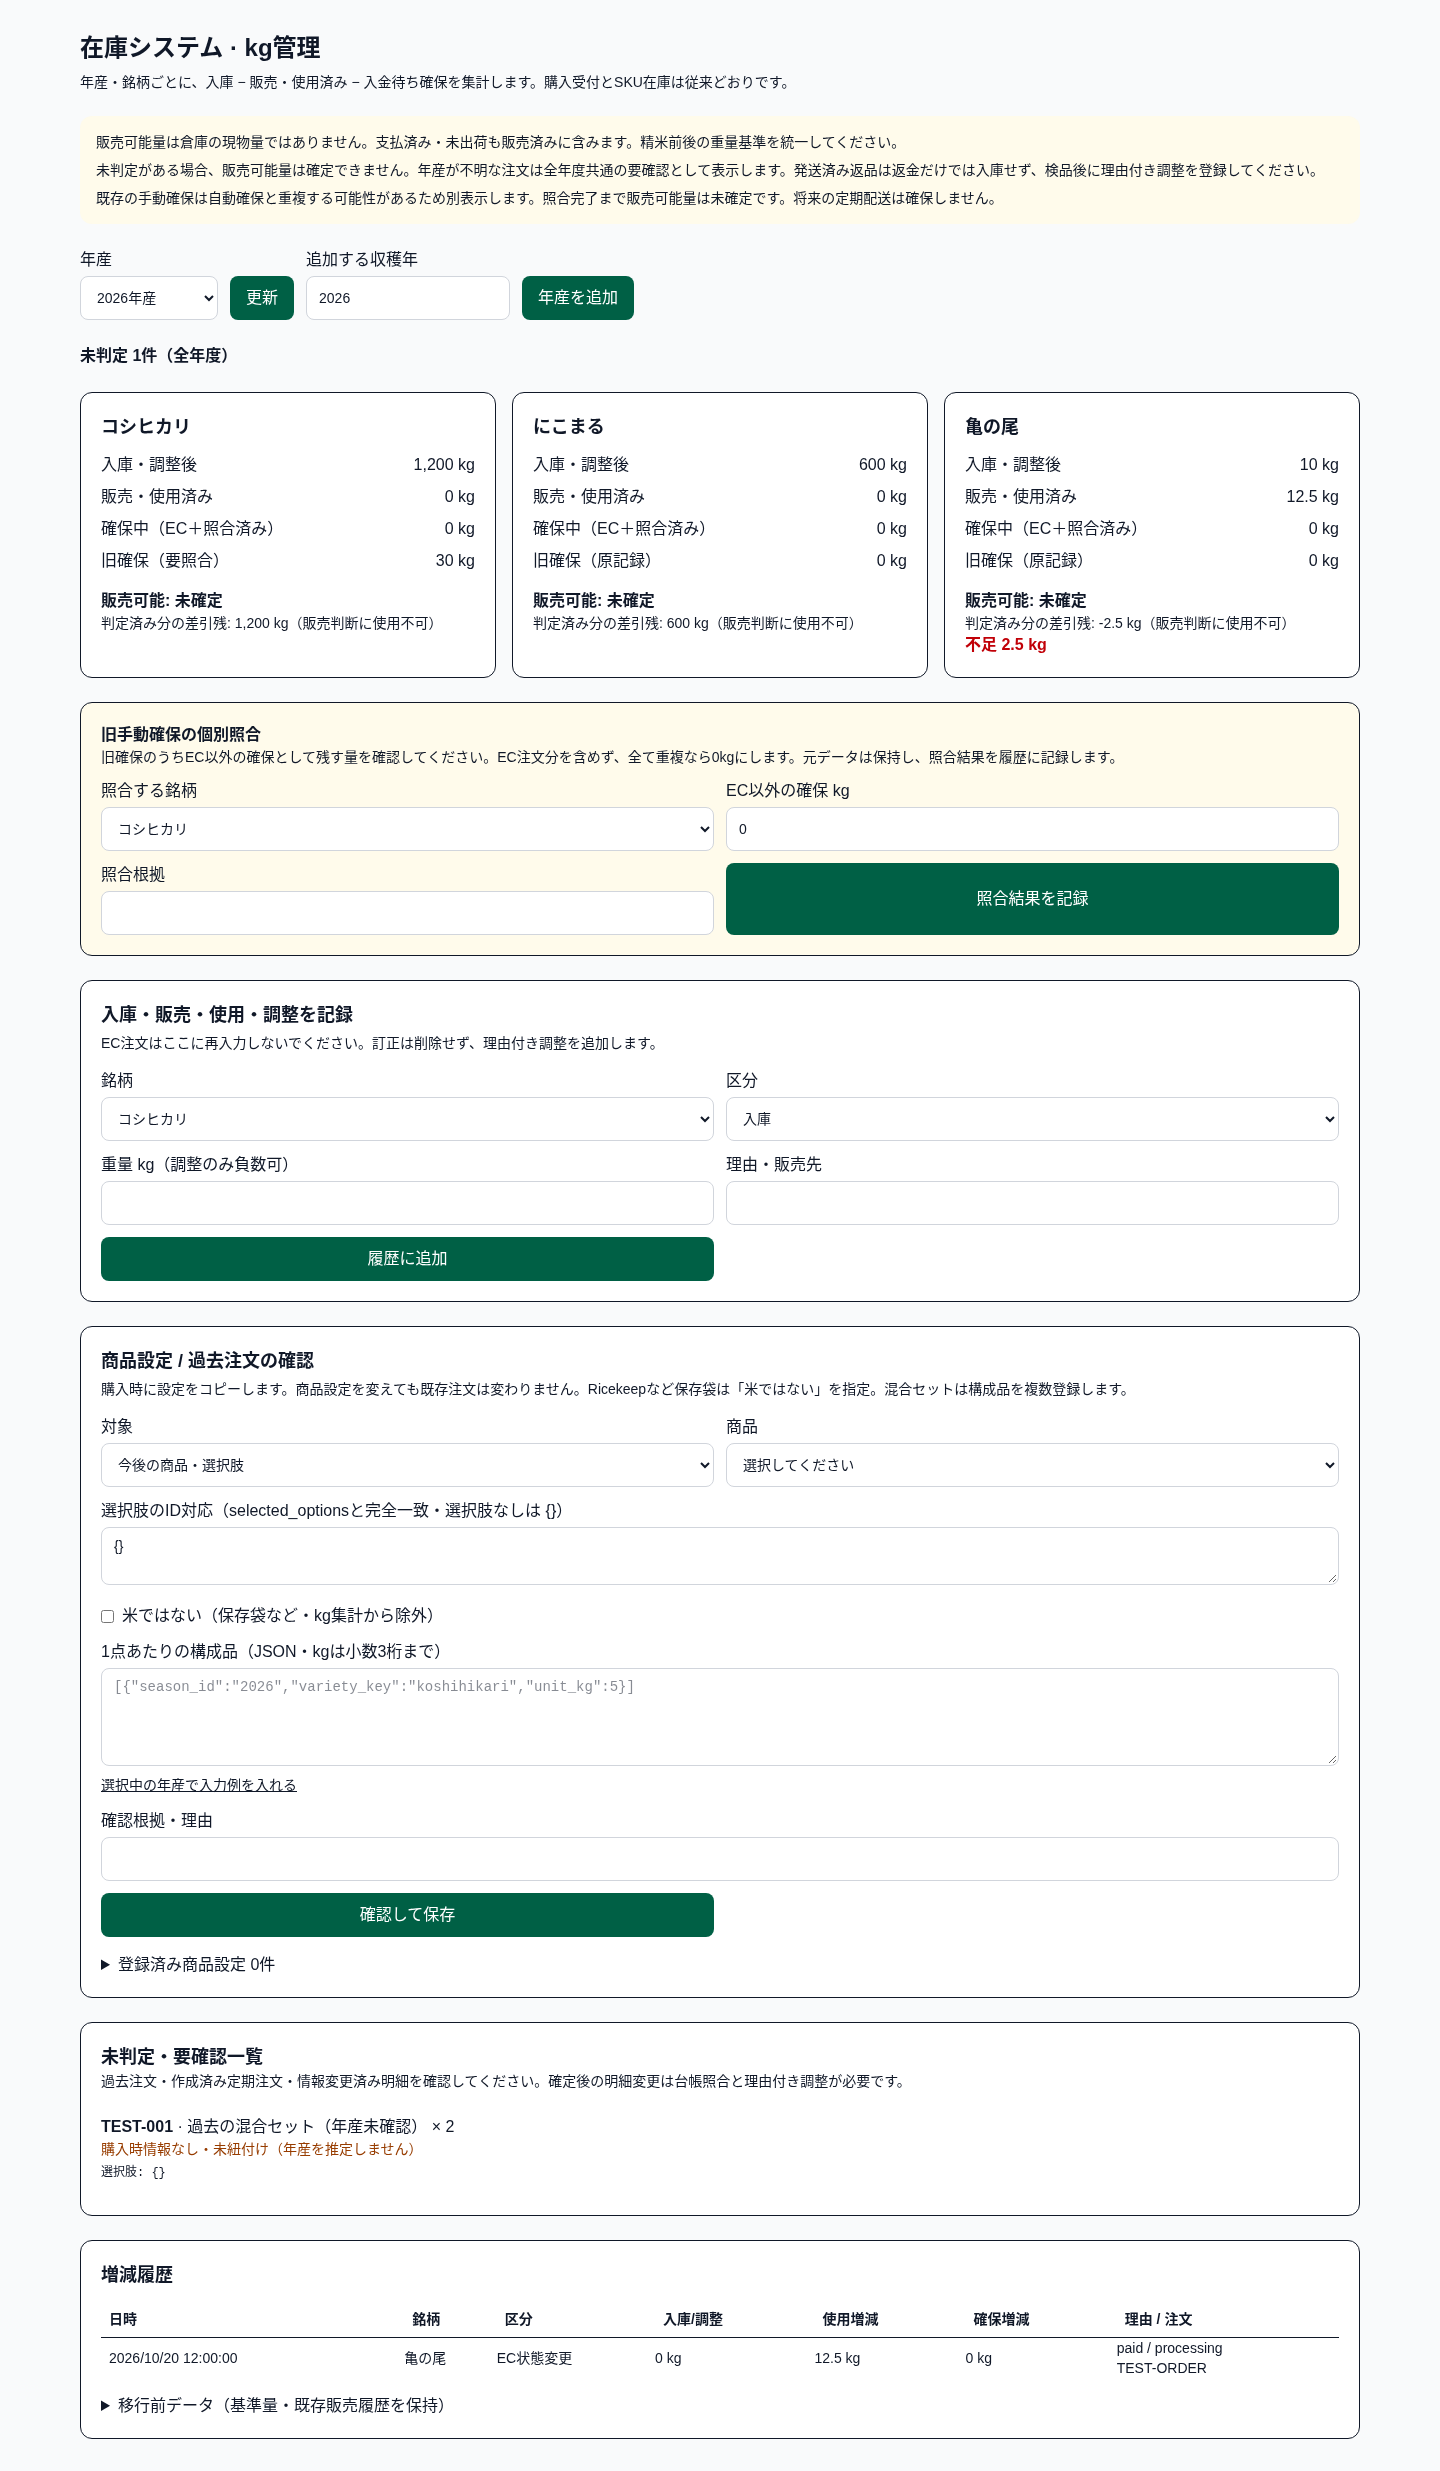
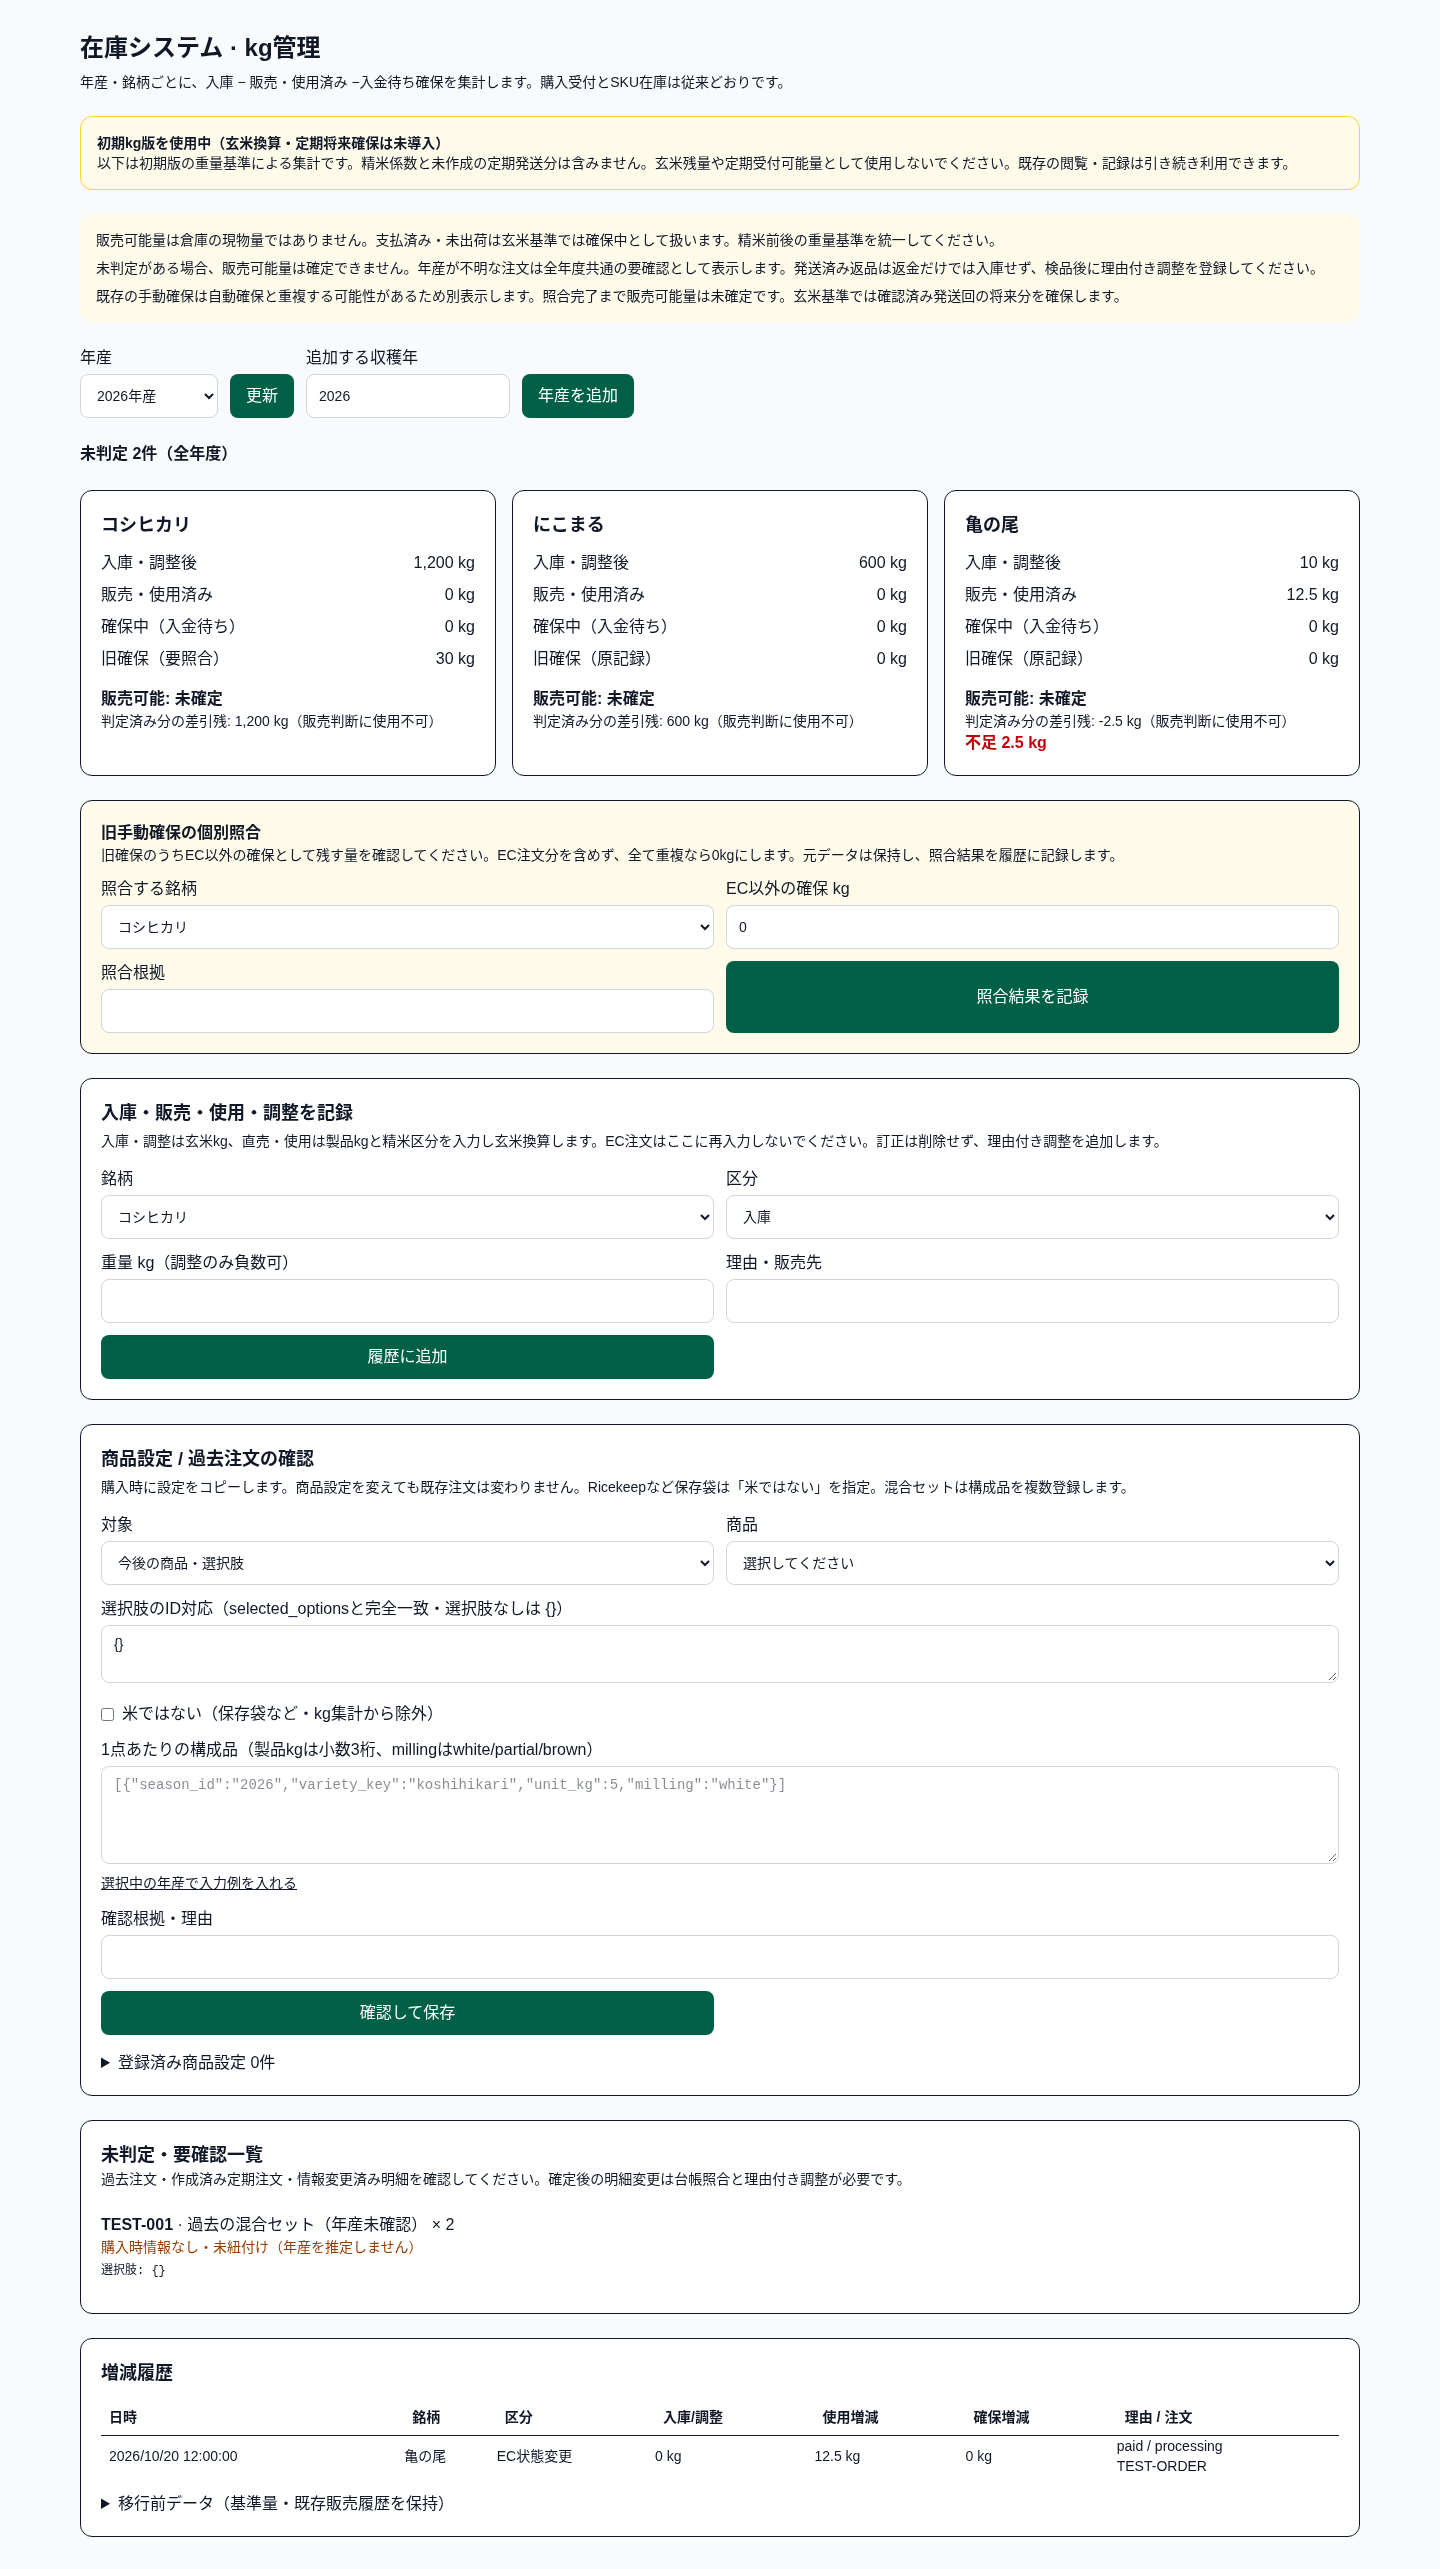
Verify subscription inventory rollout compatibility and document SQL hold

diff --git a/tests/subscriptionWebhookCompatibility.test.ts b/tests/subscriptionWebhookCompatibility.test.ts
@@ -1,0 +1,72 @@
+// @vitest-environment node
+import { afterEach, beforeEach, expect, it, vi } from "vitest";
+const mock = vi.hoisted(() => ({
+  from: vi.fn(), event: {} as any, mail: vi.fn(),
+}));
+vi.mock("@supabase/supabase-js", () => ({ createClient: () => ({ from: mock.from }) }));
+vi.mock("@/lib/brevo", () => ({ sendBrevoEmail: mock.mail }));
+vi.mock("stripe", () => ({
+  default: class {
+    webhooks = { constructEvent: () => mock.event };
+  },
+}));
+import { POST } from "../app/api/stripe-webhook/route";
+
+beforeEach(() => {
+  vi.stubEnv("STRIPE_SECRET_KEY", "fixture");
+  vi.stubEnv("STRIPE_WEBHOOK_SECRET", "fixture");
+  vi.stubEnv("SUPABASE_URL", "http://127.0.0.1:1");
+  vi.stubEnv("SUPABASE_SERVICE_ROLE_KEY", "fixture");
+  vi.stubGlobal("fetch", vi.fn(() => { throw new Error("External requests forbidden"); }));
+  mock.event = {
+    id: "evt_fixture",
+    type: "customer.subscription.updated",
+    data: { object: {
+      id: "sub_fixture", customer: "cus_fixture", status: "active",
+      metadata: { interval: "monthly", pending_changes: "stale" },
+      current_period_end: 1800000000, cancel_at_period_end: false,
+    } },
+  };
+});
+afterEach(() => {
+  vi.unstubAllEnvs(); vi.unstubAllGlobals(); vi.resetAllMocks();
+});
+
+it.each([null, { pending_changes: { product: { product_id: "confirmed" } }, shipping: { city: "fixture" } }])(
+  "syncs duplicate subscription events on the existing schema and preserves local metadata %j",
+  async (initial) => {
+    let metadata: any = initial;
+    let events = 0;
+    const updates: any[] = [];
+    const tables: string[] = [];
+    mock.from.mockImplementation((table: string) => {
+      tables.push(table);
+      let writing = false;
+      const q: any = {
+        select: () => writing ? Promise.resolve({ data: [{ id: "s" }], error: null }) : q,
+        eq: () => q, is: () => q, order: () => q, limit: () => q,
+        maybeSingle: async () => ({ data: table === "orders"
+          ? { auth_user_id: "u", email: "fixture@example.invalid", subscription_interval: "monthly" }
+          : { id: "s", metadata }, error: null }),
+        single: async () => ({ data: { metadata }, error: null }),
+        insert: async () => ({ error: events++ ? { code: "23505" } : null }),
+        update: (row: any) => { writing = true; metadata = row.metadata; updates.push(row); return q; },
+      };
+      return q;
+    });
+    for (let n = 0; n < 2; n++) {
+      const result = await POST(new Request("http://localhost/api/stripe-webhook", {
+        method: "POST", headers: { "stripe-signature": "fixture" }, body: "{}",
+      }));
+      expect(result.status).toBe(200);
+    }
+    expect(updates).toHaveLength(2);
+    expect(metadata.pending_changes).toEqual(initial?.pending_changes);
+    expect(metadata.shipping).toEqual(initial?.shipping);
+    expect(metadata.interval).toBe("monthly");
+    expect(updates[1].status).toBe("active");
+    expect(new Set(tables)).toEqual(new Set(["stripe_webhook_events", "orders", "subscriptions"]));
+    expect(mock.mail).not.toHaveBeenCalled();
+    expect(fetch).not.toHaveBeenCalled();
+  },
+);

diff --git a/admin/InventorySystem.tsx b/admin/InventorySystem.tsx
@@ -310,9 +310,16 @@ export default function InventorySystem() {
         <h1 className="text-2xl font-bold">在庫システム · kg管理</h1>
         <p className="mt-2 text-sm">
           年産・銘柄ごとに、入庫 − 販売・使用済み −
-          入金待ち確保を集計します。購入受付とSKU在庫は従来どおりです。
+          {rawMode ? "注文・定期将来分・EC以外の確保" : "入金待ち確保"}
+          を集計します。購入受付とSKU在庫は従来どおりです。
         </p>
       </header>
+      {ready && !rawMode && (
+        <section role="status" className="rounded-xl border border-amber-300 bg-amber-50 p-4 text-sm">
+          <h2 className="font-bold">初期kg版を使用中（玄米換算・定期将来確保は未導入）</h2>
+          <p>以下は初期版の重量基準による集計です。精米係数と未作成の定期発送分は含みません。玄米残量や定期受付可能量として使用しないでください。既存の閲覧・記録は引き続き利用できます。</p>
+        </section>
+      )}
       <div className="rounded-xl bg-amber-50 p-4 text-sm space-y-2">
         <p>
           販売可能量は倉庫の現物量ではありません。支払済み・未出荷は玄米基準では確保中として扱います。精米前後の重量基準を統一してください。
@@ -396,7 +403,7 @@ export default function InventorySystem() {
                     {[
                       ["入庫・調整後", r.incoming],
                       ["販売・使用済み", r.used],
-                      ["確保中（注文＋将来＋EC以外）", r.held],
+                      [rawMode ? "確保中（注文＋将来＋EC以外）" : "確保中（入金待ち）", r.held],
                       ...(rawMode
                         ? [
                             [

diff --git a/tests/kgSubscriptionUI.test.tsx b/tests/kgSubscriptionUI.test.tsx
@@ -32,6 +32,20 @@ afterEach(() => {
   cleanup();
   vi.resetAllMocks();
 });
+it("keeps v1 recording in its original units without exposing v2 settings", async () => {
+  const { accounting_version, ...v1 } = report;
+  rpc.mockResolvedValue({ data: v1, error: null });
+  render(<InventorySystem />);
+  await screen.findByText("初期kg版を使用中（玄米換算・定期将来確保は未導入）");
+  expect(screen.queryByText("契約の発送アンカーを確認")).toBeNull();
+  expect(screen.queryByLabelText("販売・使用の精米区分")).toBeNull();
+  fireEvent.change(screen.getByLabelText("区分"), { target: { value: "direct" } });
+  fireEvent.change(screen.getByLabelText("重量 kg（調整のみ負数可）"), { target: { value: "5" } });
+  fireEvent.change(screen.getByLabelText("理由・販売先"), { target: { value: "v1 fixture" } });
+  fireEvent.click(screen.getByText("履歴に追加"));
+  await waitFor(() => expect(rpc).toHaveBeenCalledWith("kg_record_movement",
+    expect.objectContaining({ kg: 5, reason: "v1 fixture" })));
+});
 it("does not assume a deadline year or convert old balances", async () => {
   rpc.mockResolvedValue({
     data: {

diff --git a/docs/kg-subscription-implementation.md b/docs/kg-subscription-implementation.md
@@ -1,6 +1,6 @@
 # 定期将来確保・玄米換算 ローカル実装結果
 
-本番未適用・未push・未デプロイ。作業ブランチ `design/kg-subscription-reservations`。現行mainは旧画面フォールバック修正版 `80ccf6a`のまま。締切年は回答待ちで、年産・銘柄ごとの管理者設定とし、2027年等の本番値を登録していない。
+コードのmain反映対象。DBは本番未適用であり、コード公開だけでは追加在庫機能は利用できません。作業ブランチ `design/kg-subscription-reservations`。締切年は回答待ちで、年産・銘柄ごとの管理者設定とし、2027年等の本番値を登録していない。
 
 ## 実装
 
@@ -40,8 +40,19 @@
 - `admin/KgSubscriptionSettings.tsx`、`admin/InventorySystem.tsx`、`lib/kgInventory.ts`: 管理UI・原料集計。
 - `lib/subscriptionSnapshots.ts`、`app/api/stripe-webhook/route.ts`、`app/api/sync-subscription/route.ts`: 新発送明細の初期化と契約同期保護。
 - `docs/kg-inventory-sql/README.md`、01b/03/04/05 SQL: 適用前後・停止/再開の改訂手順。本番適用は保留。
-- `npm test`: 60件成功（既存購入・フォールバック・設計、係数、画面、複製、同期競合、既存課金/重量変更制限）。
+- `npm test`: 63件成功（既存購入・フォールバック・設計、係数、画面、複製、同期競合、既存課金/重量変更制限）。
 - `npx tsc --noEmit`、本番向けローカルbuild成功。
 - 隔離PostgreSQL16でv1→v2、5回/4回、係数/数量、二重計上防止、発送/返金/解約、予約変更、スキップ、周期、休止、旧データ保持、権限を確認。`scripts/test-kg-subscriptions.sh`。
 - 全手順・事前不一致拒否・v1/v2導入・停止/再開・履歴保持・再照合を` scripts/test-kg-runbook.sh`で確認。
 - 外部リクエストを遮断した独立モック画面で1440px/390pxを確認。横溢れ・JSエラーなし、期限入力は空。`docs/kg-inventory-evidence/subscription-desktop.png` / `subscription-mobile.png`。
+
+## main反映前の再検証（2026-10-20）
+
+- origin/main `80ccf6a` を再取得し、他者による追加変更がないことを確認。
+- 初期kg版のみ導入済みなら明確な未拡張バナーと初期版の重量単位を維持。5kgの外販記録が5kgのままであることをテスト。
+- kg未導入時の旧画面閲覧・入庫/外販編集・削除と、認証/通信エラーでフォールバックしない回帰テスト成功。
+- 実webhookハンドラーを外部サービス完全モックで呼び出し、既存subscriptionsスキーマ・metadata NULL・二重通知・予約変更保持を確認。実メール/決済/計測なし。
+- 全63テスト、TypeScript、本番向けローカルbuild、隔離PostgreSQL16での全SQL手順が成功。
+- 独立モックの旧画面/初期kg/玄米定期版を1440pxと390pxで確認。横溢れ・JSエラーなし。締切入力は未設定。
+- 旧UI検証スクリプトが旧不足テキストを待って一度タイムアウト。モックのバージョンを明示した再検証は全画面成功。
+- SQLには本番適用保留の注意書きを追加。コード公開とDB適用は別であり、本番DBには接続・実行しない。

diff --git a/docs/kg-inventory-sql/README.md b/docs/kg-inventory-sql/README.md
@@ -1,3 +1,5 @@
+> ローカル検証版。本番適用は保留。締切年・玄米基準の初期値・既存注文との照合・本番スキーマを確認するまで適用 SQL は実行しない
+
 # 玄米換算・定期将来確保 SQL手順（ローカル検証版／本番適用保留）
 
 **今は本番で実行しないでください。** 追加仕様に更新したローカル検証版です。令和8年産の締切年は回答待ちで、期限月のデータをSQLに設定していません。既存のSupabaseに追加する設計で、別のDBサービスは不要です。本番接続・実行・旧データ変換はしておらず、本番スキーマ適合性を保証しません。旧配布ZIPは廃止扱いです。
